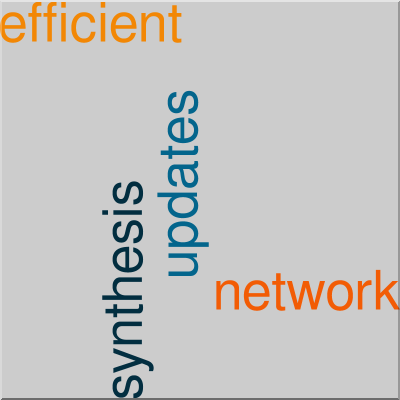
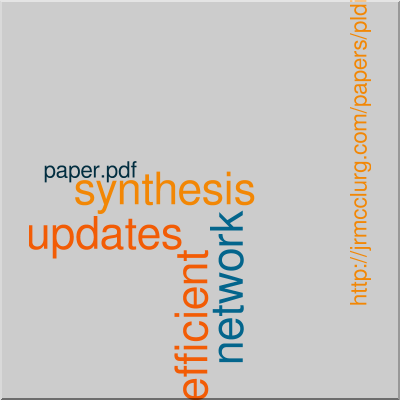
add camera-ready

Changed region(s): [[0.06, 0.0, 1.0, 1.0], [0.0, 0.0, 0.45, 0.12]]

diff --git a/index.html b/index.html
@@ -427,11 +427,12 @@
             <h4 xmlns="">Recent Publications</h4>
             <h2 xmlns=""><a href="http://conf.researchr.org/home/pldi2015/">PLDI 2015</a><span class="subh">Portland, Oregon, USA</span><span class="subh">June 2015</span></h2>
             <div xmlns="" class="item">
-               <div class="item-icon"><img src="clouds/netsynth-pldi15.words.png" class="icon"></div>
+               <div class="item-icon"><a href="http://jrmcclurg.com/papers/pldi_2015_paper.pdf"><img src="clouds/netsynth-pldi15.words.png" class="icon"></a></div>
                <div class="item-block">
                   <div class="item-date">2015</div>
                   <ul class="hlinks">
                      <li><a href="papers/netsynth-pldi15.html">detail</a></li>
+                     <li><a href="http://jrmcclurg.com/papers/pldi_2015_paper.pdf">pdf</a></li>
                   </ul>
                   <div class="item-header hanging">Efficient Synthesis of Network Updates</div>
                   <div class="hanging"><a href="http://www.jrmcclurg.com/">Jedidiah McClurg</a>, <a href="http://www.cs.cornell.edu/~hojjat/">Hossein Hojjat</a>, <a href="http://ecee.colorado.edu/pavol/">Pavol Černý</a>,  and <a href="http://www.cs.cornell.edu/~jnfoster/">Nate Foster</a></div>

diff --git a/papers.html b/papers.html
@@ -39,11 +39,12 @@
                <div class="title">Papers</div>
             </div>
             <div xmlns="" class="item">
-               <div class="item-icon"><img src="clouds/netsynth-pldi15.words.png" class="icon"></div>
+               <div class="item-icon"><a href="http://jrmcclurg.com/papers/pldi_2015_paper.pdf"><img src="clouds/netsynth-pldi15.words.png" class="icon"></a></div>
                <div class="item-block">
                   <div class="item-date">2015</div>
                   <ul class="hlinks">
                      <li><a href="papers/netsynth-pldi15.html">detail</a></li>
+                     <li><a href="http://jrmcclurg.com/papers/pldi_2015_paper.pdf">pdf</a></li>
                   </ul>
                   <div class="item-header hanging">Efficient Synthesis of Network Updates</div>
                   <div class="hanging"><a href="http://www.jrmcclurg.com/">Jedidiah McClurg</a>, <a href="http://www.cs.cornell.edu/~hojjat/">Hossein Hojjat</a>, <a href="http://ecee.colorado.edu/pavol/">Pavol Černý</a>,  and <a href="http://www.cs.cornell.edu/~jnfoster/">Nate Foster</a></div>

diff --git a/papers/netsynth-pldi15.html b/papers/netsynth-pldi15.html
@@ -54,11 +54,12 @@
             </div>
             <h4 xmlns="">Reference</h4>
             <div xmlns="" class="item">
-               <div class="item-icon"><img src="clouds/netsynth-pldi15.words.png" class="icon"></div>
+               <div class="item-icon"><a href="http://jrmcclurg.com/papers/pldi_2015_paper.pdf"><img src="clouds/netsynth-pldi15.words.png" class="icon"></a></div>
                <div class="item-block">
                   <div class="item-date">2015</div>
                   <ul class="hlinks">
                      <li><a href="papers/netsynth-pldi15.html">detail</a></li>
+                     <li><a href="http://jrmcclurg.com/papers/pldi_2015_paper.pdf">pdf</a></li>
                   </ul>
                   <div class="item-header hanging">Efficient Synthesis of Network Updates</div>
                   <div class="hanging"><a href="http://www.jrmcclurg.com/">Jedidiah McClurg</a>, <a href="http://www.cs.cornell.edu/~hojjat/">Hossein Hojjat</a>, <a href="http://ecee.colorado.edu/pavol/">Pavol Černý</a>,  and <a href="http://www.cs.cornell.edu/~jnfoster/">Nate Foster</a></div>
